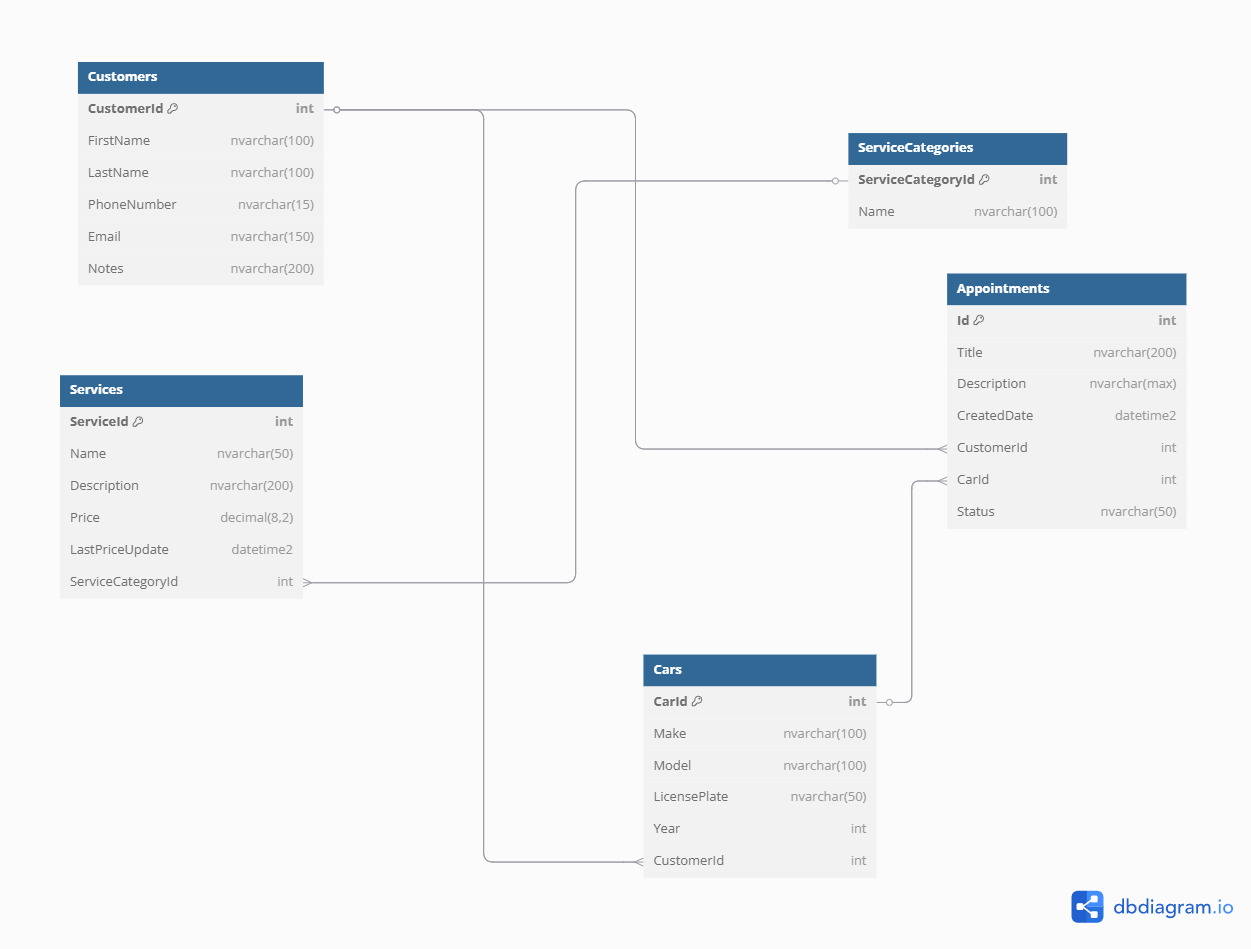
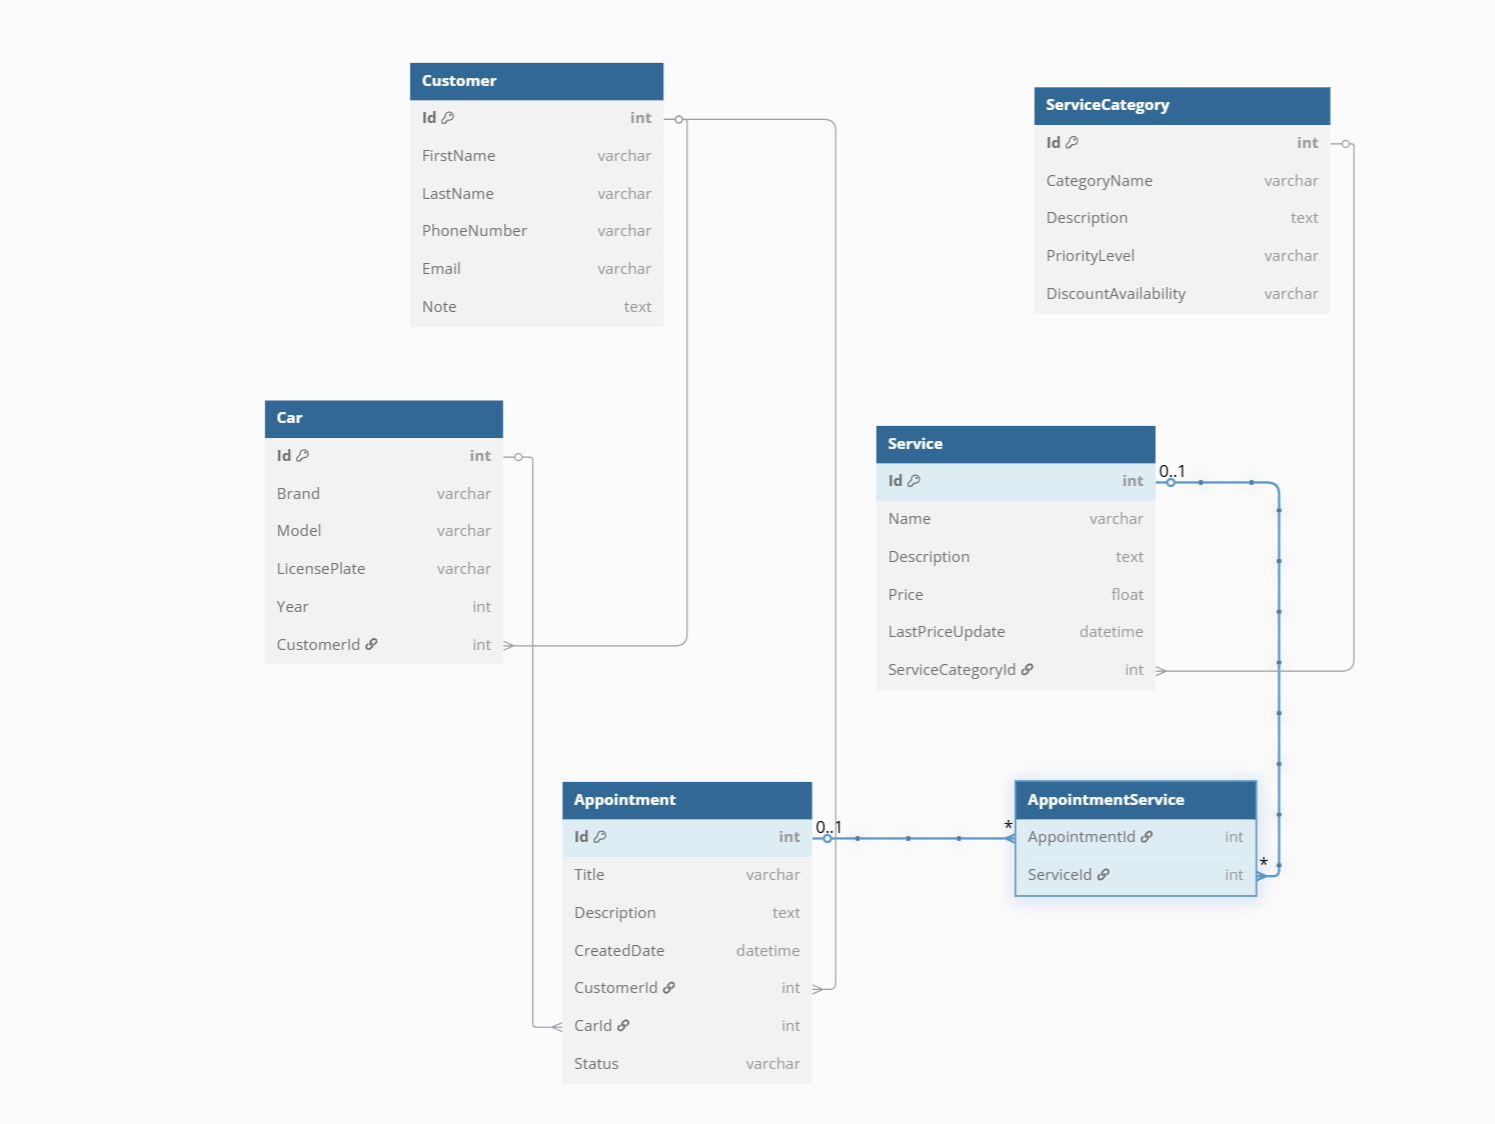
changes in entities

diff --git a/MotoCareAPI/Entities/Appointment.cs b/MotoCareAPI/Entities/Appointment.cs
@@ -9,6 +9,11 @@ namespace MotoCareAPI.Entities
         public DateTime CreatedDate { get; set; }
         public int CustomerId { get; set; }
         public int CarId { get; set; }
+        public int ServiceId { get; set; }
         public AppointmentStatus Status { get; set; }
+        public ICollection<Service> Services { get; set; }
+        public Customer Customer { get; set; }
+        public Car Car { get; set; }
+
     }
 }

diff --git a/MotoCareAPI/Entities/Service.cs b/MotoCareAPI/Entities/Service.cs
@@ -9,6 +9,7 @@
         public DateTime LastPriceUpdate { get; set; }
         public int ServiceCategoryId { get; set; }
         public ServiceCategory Category { get; set; }
+        public ICollection<Service> Services { get; set; }
 
     }
 }
